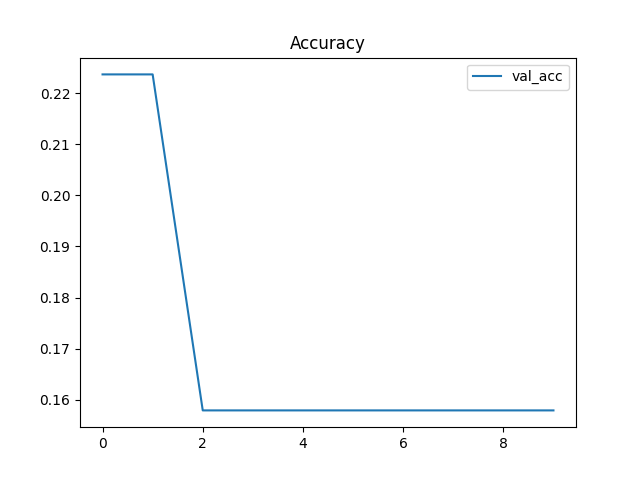
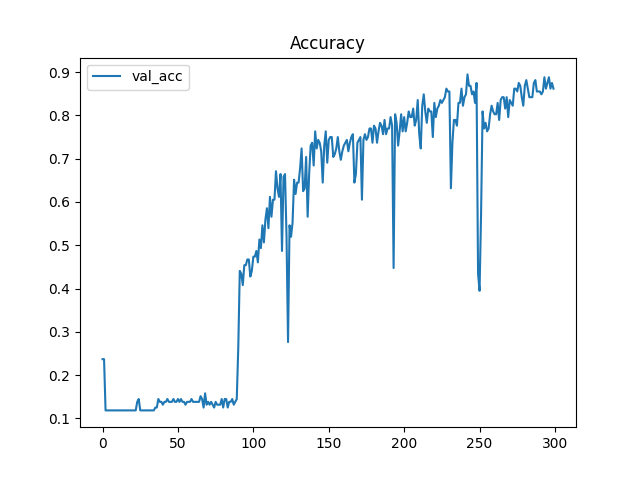
fix: serve

diff --git a/train.py b/train.py
@@ -140,7 +140,6 @@ plt.legend()
 plt.savefig('acc.png')
 
 
-model = Net(3).to(device)
 model.eval()
 
 app = flask.Flask(__name__)
@@ -159,8 +158,10 @@ def interference():
     result_array[:data_array.shape[0], :] = data_array
     data = torch.Tensor(result_array).unsqueeze(0).to(device)
     output = model(data)
+    _, predicted = torch.max(output.cpu().detach(), 1)
     output = output.cpu().detach().numpy()
     print(output)
+    print(predicted)
     return json.dumps(output.tolist())
 
 

diff --git a/config.py b/config.py
@@ -3,6 +3,6 @@ feature_filter = (0, 3)  # use only gyro
 # feature_filter = (6, 9)  # use only accelerometer
 batch_size = 32
 split_ratio = 0.8
-epochs = 200
+epochs = 300
 device = 'cpu'
 data_folder = 'data3'
